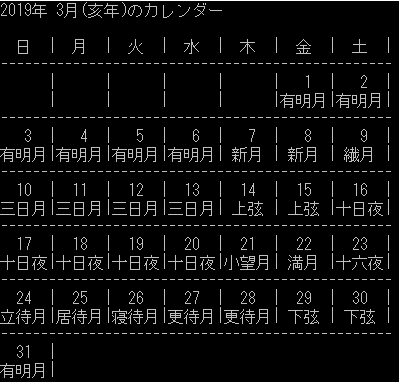
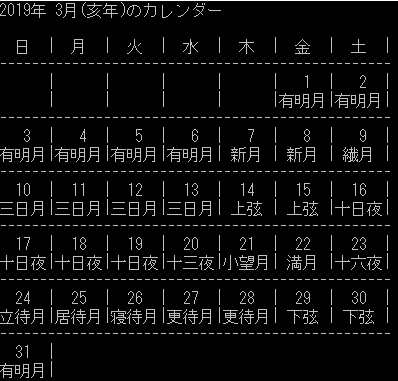
文章校正

diff --git a/lecture/src/cpp/SimpleCalendarDev/SimpleCalendar/CMonthInfo.cpp b/lecture/src/cpp/SimpleCalendarDev/SimpleCalendar/CMonthInfo.cpp
@@ -49,7 +49,7 @@ CMonthInfo::Convert_MoonName( double moon_age )
     else if( age <= 12 )
         return "十日夜";
     else if( age <= 13 )
-        return "十日夜";
+        return "十三夜";
     else if( age <= 14 )
         return "小望月";
     else if( age <= 15 )

diff --git a/lecture/v3_moon-age_eto.md b/lecture/v3_moon-age_eto.md
@@ -89,7 +89,7 @@ calc_eto_fromAD( int year )
         "辰", //  8番目の干支 辰(しん・たつ)
         "巳", //  9番目の干支 巳(し・み)
         "午", // 10番目の干支 午(ご・うま)
-        "未", // 11番目の干支 亥(がい・い)
+        "未", // 11番目の干支 未(び・ひつじ)
     };    
     return eto_table[ year % 12 ];
 } // calc_eto_fromAD()
@@ -109,7 +109,7 @@ calc_eto_fromAD( int year )
 
 **月の満ち欠けを周期化**したものとでもいいましょうか。**月の満ち欠けは太陽と月の関係から成るもの**とは中学生辺りで習うと思いますが、その頃月齢についてどう訊かされていたのかサッパリ思い出せません。
 
-**月の満ち欠けの周期は、おおむね29日と半日(さしづめ29.5日といった所)**なので、大体一か月で一巡します。月齢は**新月を月齢0日、満月を14.7日**と言った風に記載するのですが、流石に日と月齢表記の併記はややこしくなりそうです。しかしご安心。雅を文化とする日本には**月名**があります
+**月の満ち欠けの周期は、おおむね29日と半日(さしづめ29.5日といった所)**なので、大体一か月で一巡します。月齢は**新月を月齢1日、満月を14.7日**と言った風に記載するのですが、流石に日と月齢表記の併記はややこしくなりそうです。しかしご安心。雅を文化とする日本には**月名**があります
 
 | 月齢  | 月名                   |
 | ----- | ---------------------- |
@@ -117,6 +117,7 @@ calc_eto_fromAD( int year )
 | 2     | 繊月（せんげつ）       |
 | 3     | 三日月（みかづき）     |
 | 7/8   | 上弦（じょうげん）     |
+| 10    | 十日夜                 |
 | 13    | 十三夜（じゅうさんや） |
 | 14    | 小望月（こもちづき）   |
 | 15    | 満月（まんげつ）       |
@@ -135,6 +136,17 @@ calc_eto_fromAD( int year )
 年月日から概算出来る為の計算式が(その手の人には)広く知られているようなので、それを流用しましょう
 
 ```cpp
+double
+Calc_MoonAge( int year, int month, int day )
+{
+    double val = ( ( ( year - 2009 ) % 19 ) * 11 + month + day ) % 30;
+    if( month <= 2 )
+    {
+        val += 2;
+    }
+    return val;
+} // Calc_MoonAge()
+
 const char*
 Convert_MoonName( double moon_age )
 {
@@ -144,7 +156,7 @@ Convert_MoonName( double moon_age )
     else if( age <=  6 ) return "三日月";
     else if( age <=  8 ) return " 上弦 ";
     else if( age <= 12 ) return "十日夜";
-    else if( age <= 13 ) return "十日夜";
+    else if( age <= 13 ) return "十三夜";
     else if( age <= 14 ) return "小望月";
     else if( age <= 15 ) return " 満月 ";
     else if( age <= 16 ) return "十六夜";
@@ -162,7 +174,7 @@ Convert_MoonName( double moon_age )
 void
 PrintMoonAge( ( int year, int month, int day )
 {
-    double moon_age = ( ( ( year - 2009 ) % 19 ) * 11 + month + day ) % 30;
+    double moon_age = Calc_MoonAge( year, month, day );
     if( month <= 2 )
         moon_age += 2;
     return Convert_MoonName( moon_age );
@@ -173,7 +185,7 @@ PrintMoonAge( ( int year, int month, int day )
 
 これらの情報を元に、出力イメージを作成してみます
 
-![moon_age_sample](.\picture\moon_age_sample.png)
+![moon_age_sample](./picture/moon_age_sample.png)
 
 ## システム検討
 
@@ -243,14 +255,33 @@ PrintCalendar( int year, int month )
 
 ![print_moon_age_proc.flow](./picture/print_moon_age_proc.flow.jpg)
 
-では、PrintCalendar()関数の該当箇所の変更内容を示します。これで対応完了です
+フローチャートにあるprint_moon_age()の実装は以下の通りです
+
+```cpp
+static void
+print_moon_age( int day_of_week, double moon_age )
+{
+    for( int idx = 0; idx < day_of_week; idx++ )
+    {
+        printf( "%s|", CMonthInfo::Convert_MoonName( moon_age ) );
+        moon_age = ( int )( moon_age + 1 ) % 30;
+    }
+    printf( "\n-------------------------------------------------\n" );
+} // print_moon_age()
+```
+
+### PrintCalendar変更内容
+
+では、これまでの内容をPrintCalendar()に反映しましょう。変更箇所を抜粋します。
+
+これで干支・月齢表示の対応が完了しました
 
 ```diff
     // 日部分を出力する
     int eom = GetEndOfMonth( year, month );
     DateInfo today = { year, month, 1, start_weekday };
 +   // 月齢処理用変数
-+   double cur_moon_age = CMonthInfo::Calc_MoonAge( year, month, 1 );
++   double cur_moon_age = Calc_MoonAge( year, month, 1 );
 +   bool is_first_week = true; // 初週判定フラグ
 +   int days_of_week = 0; // 現出力週の日数
     for( int day = 0; day < eom; day++ )
